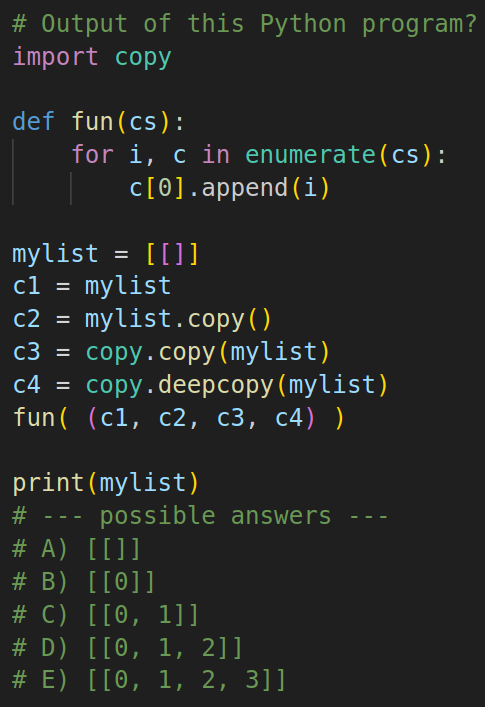
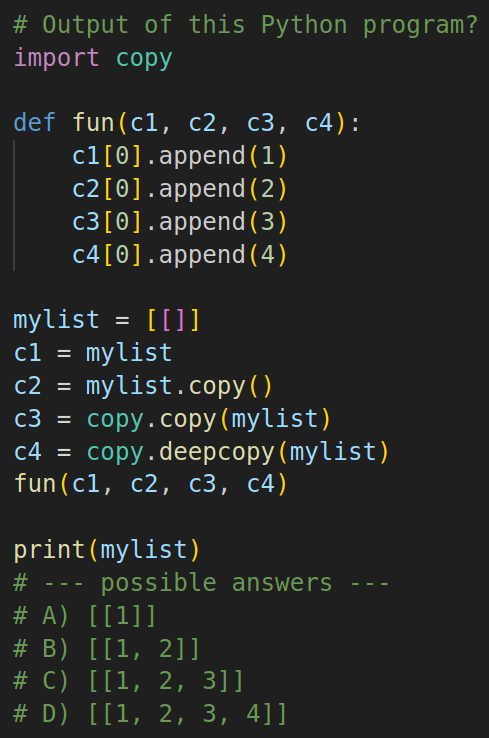
update

diff --git a/exercises/exercise8.py b/exercises/exercise8.py
@@ -2,22 +2,23 @@
 # Output of this Python program?
 import copy
 
-def fun(cs):
-    for i, c in enumerate(cs):
-        c[0].append(i)
+def fun(c1, c2, c3, c4):
+    c1[0].append(1)
+    c2[0].append(2)
+    c3[0].append(3)
+    c4[0].append(4)
 
 mylist = [[]]
 c1 = mylist
 c2 = mylist.copy()
 c3 = copy.copy(mylist)
 c4 = copy.deepcopy(mylist)
-fun( (c1, c2, c3, c4) )
+fun(c1, c2, c3, c4)
 
 print(mylist)
 # --- possible answers ---
-# A) [[]]
-# B) [[0]]
-# C) [[0, 1]]
-# D) [[0, 1, 2]]
-# E) [[0, 1, 2, 3]]
+# A) [[1]]
+# B) [[1, 2]]
+# C) [[1, 2, 3]]
+# D) [[1, 2, 3, 4]]
 
